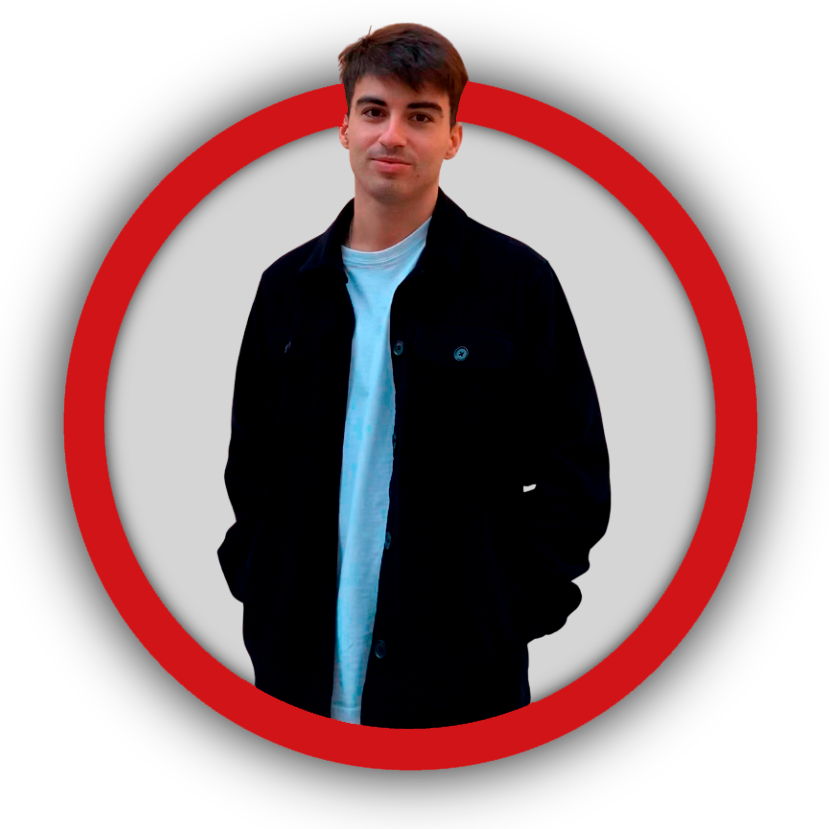
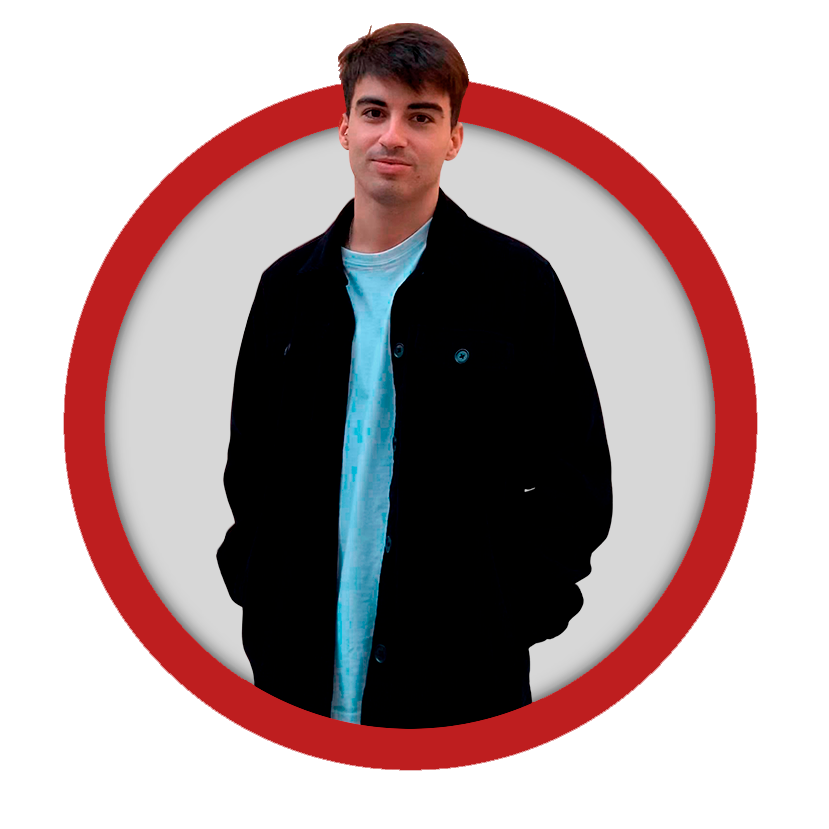
Hero container almost done

diff --git a/estilos.css b/estilos.css
@@ -1,16 +1,26 @@
-@import url('https://fonts.googleapis.com/css2?family=Poppins&display=swap');
+@import url('https://fonts.googleapis.com/css2?family=Source+Code+Pro&display=swap');
 
 @keyframes circulo{
     from{clip-path: circle(0% at 50% 50%);}
     to{clip-path: circle(50.0% at 50% 50%);}
     }
 
+@keyframes typing {
+    from { width: 0 }
+    to { width: 100% }
+    }
+    
+@keyframes blink-caret {
+from, to { border-color: transparent }
+50% { border-color: rgb(196, 17, 17); }
+}
+
 body{
     width: 100%;
     height: 100%;
     padding: 0px;
     margin: 0px;
-    font-family: 'Poppins';
+    font-family: 'Source Code Pro';
 }
 
 main{
@@ -24,10 +34,22 @@ main{
     height: 100%;
 }
 
+.hero-bg{
+    height: 100%;
+    width: 100%;
+    position: absolute;
+    z-index: -4;
+}
+
 .hero-img{
     height: auto;
     width: 40%;
     margin-top: 3%;
+    filter: drop-shadow(1px 1px 30px black);
+    -webkit-user-drag: none;
+    -khtml-user-drag: none;
+    -moz-user-drag: none;
+    -o-user-drag: none;
 }
 
 .sections{
@@ -36,13 +58,33 @@ main{
     width: 20%;
 }
 
-.s1, .s2, .s3, .s4{
+.s1, .s4{
     transition: width 0.5s;
     width: 20%;
 }
 
-.s1:hover, .s2:hover, .s3:hover, .s4:hover{
+.s2{
+    transition: width 0.5s;
+    width: 25%;
+}
+
+.s3{
+    transition: width 0.5s;
+    width: 18%;
+}
+
+.s1:hover, .s4:hover{
     width: 22%;
+    filter: drop-shadow(1px 1px 3px #000000);
+}
+
+.s2:hover{
+    width: 27%;
+    filter: drop-shadow(1px 1px 3px #000000);
+}
+
+.s3:hover{
+    width: 20%;
     filter: drop-shadow(1px 1px 3px #000000);
 }
 
@@ -64,5 +106,30 @@ margin-left: 75%;
 
 .info{
     margin-left: 2%;
+    margin-top: 8%;
+}
+
+.hello{
+    font-size: 24px;
+}
+
+.line{
+    color: gray;
+    font-size: 24px;
+}
+
+.info h1{
     margin-top: 12%;
+    overflow: hidden;
+    border-right: .15em solid rgb(201, 14, 14);
+    white-space: nowrap;
+    letter-spacing: .15em;
+    background-color: rgba(255, 0, 0, 0.144);
+    animation: 
+        typing 2.5s steps(40, end),
+        blink-caret .75s step-end infinite;
+}
+
+.info .presentation{
+    margin-top: 10%;
 }

diff --git a/index.html b/index.html
@@ -10,15 +10,19 @@
 <body>
     <main>
         <div class="hero-container">
+            <img class="hero-bg" src="images/hero-bg.svg" alt="background">
             <div class="sections">
-                <img src="images/logo.png" alt="s1" class="s1">
-                <img src="images/logo.png" alt="s2" class="s2">
-                <img src="images/logo.png" alt="s3" class="s3">
-                <img src="images/logo.png" alt="s4" class="s4">
+                <img src="images/skills.png" alt="s1" class="s1">
+                <img src="images/formation.png" alt="s2" class="s2">
+                <img src="images/experience.png" alt="s3" class="s3">
+                <img src="images/contact.png" alt="s4" class="s4">
             </div>
             <img class="hero-img" src="images/hero-img.png" alt="image">
             <div class="info">
-                <h1>Soy <span>Manuel</span> Pacheco</h1>
+                <p class="hello"><span class="line">--</span> Hello!</p>
+                <h1>I'm Manuel Pacheco</h1>
+                <p class="presentation">Full Stack Developer and Web Designer. <br><br><br>
+                Located in Seville, Spain.<br><br> Looking for working around the globe.</p>
             </div>
         </div>
     </main>
